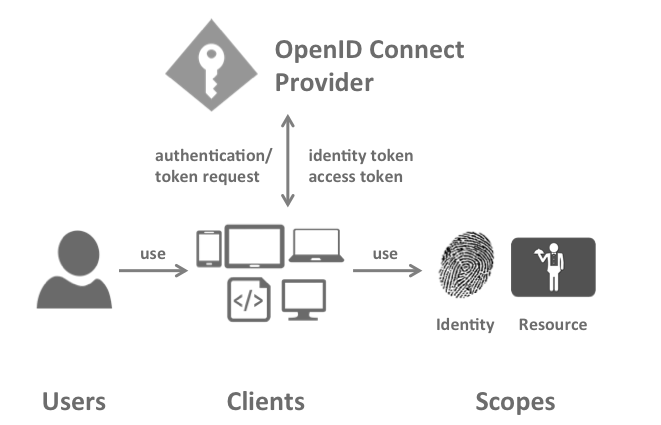
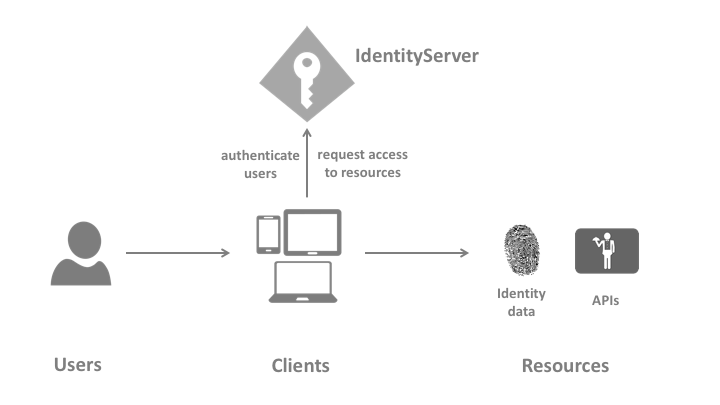
update terminology

diff --git a/docs/intro/terminology.rst b/docs/intro/terminology.rst
@@ -5,9 +5,9 @@ The specs, documentation and object model use a certain terminology that you sho
 
 .. image:: images/terminology.png
 
-OpenID Connect Provider (OP)
-^^^^^^^^^^^^^^^^^^^^^^^^^^^^
-IdentityServer is an OpenID Connect provider - it implements the OpenID Connect protocol (and OAuth2 as well).
+IdentityServer
+^^^^^^^^^^^^^^
+IdentityServer is an OpenID Connect provider - it implements the OpenID Connect and OAuth 2.0 protocol.
 
 Different literature uses different terms for the same role - you probably also find security token service,
 identity provider, authorization server, IP-STS and more.
@@ -15,6 +15,8 @@ identity provider, authorization server, IP-STS and more.
 But they are in a nutshell all the same: a piece of software that issues security tokens to clients.
 
 IdentityServer has a number of jobs and features - including:
+
+* protect your resources
 
 * authenticate users using a local account store or via an external identity provider
 
@@ -28,41 +30,34 @@ IdentityServer has a number of jobs and features - including:
 
 Client
 ^^^^^^
-A client is a piece of software that requests tokens from IdentityServer - either for authenticating a user or
-for accessing a resource (also often called a relying party or RP). A client must be registered with the OP.
+A client is a piece of software that requests tokens from IdentityServer - either for authenticating a user (requesting an identity token) 
+or for accessing a resource (requesting an access token). A client must be first registered with IdentityServer before it can request tokens.
 
 Examples for clients are web applications, native mobile or desktop applications, SPAs, server processes etc.
 
 User
 ^^^^
-A user is a human that is using a registered client to access his or her data.
+A user is a human that is using a registered client to access resources.
 
-Scope
-^^^^^
-Scopes are identifiers for resources that a client wants to access. This identifier is sent to the OP during an
-authentication or token request.
+Resources
+^^^^^^^^^
+Resources are identity data of your users or APIs that you want to protect. 
 
-They come in two flavours.
+Every resource has a unique name - and clients use this name to specify to which resources they want to get access to.
 
-**Identity scopes**
-Requesting identity information (aka claims) about a user, e.g. his name or email address is modeled as a scope in OpenID Connect.
+**Identity data**
+Identity information (aka claims) about a user, e.g. name or email address.
 
-There is e.g. a scope called `profile` that includes first name, last name, preferred username, gender, profile picture and more.
-You can read about the standard scopes `here <http://openid.net/specs/openid-connect-core-1_0.html#ScopeClaims>`_ and you can create your own scopes in IdentityServer to model your own requirements.
-
-**Resource scopes**
-Resource scopes identify web APIs (also called resource servers) - you could have e.g. a scope named `calendar` that represents your calendar API.
-
-Authentication/Token Request
-^^^^^^^^^^^^^^^^^^^^^^^^^^^^
-Clients request tokens from the OP. Depending on the scopes requested, the OP will return an identity token, an access token, or both.
+**APIs**
+APIs resources represent functionality a client wants to invoke - typically modelled as Web APIs, but not necessarily.
 
 Identity Token
 ^^^^^^^^^^^^^^
 An identity token represents the outcome of an authentication process. It contains at a bare minimum an identifier for the user 
-(called the `sub` aka subject claim).  It can contain additional information about the user and details on how the user authenticated at the OP.
+(called the `sub` aka subject claim) and information about how and when the user authenticated.  It can contain additional identity data.
 
 Access Token
 ^^^^^^^^^^^^
-An access token allows access to a resource. Clients request access tokens and forward them to an API. Access tokens contain information about the client and the user (if present).
+An access token allows access to an API resource. Clients request access tokens and forward them to the API. 
+Access tokens contain information about the client and the user (if present).
 APIs use that information to authorize access to their data.
